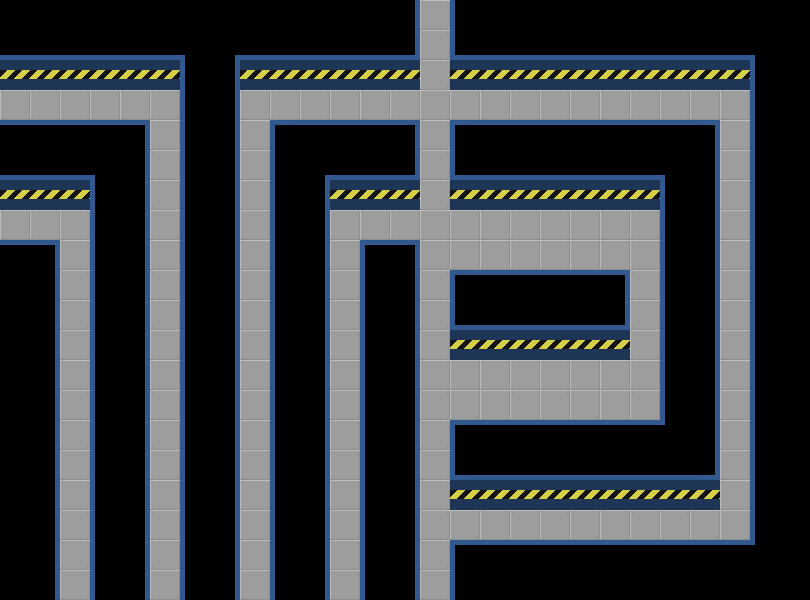
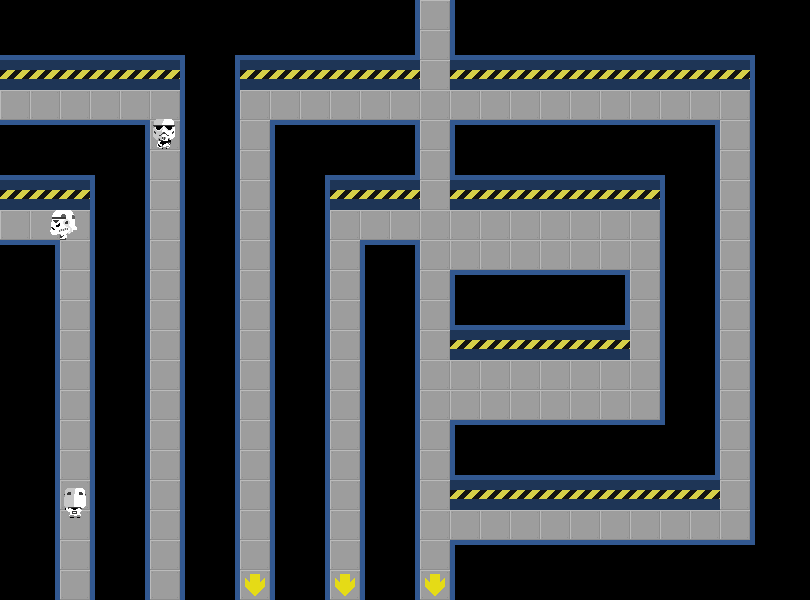
Changed some maps, edited tutorial text to fit.

diff --git a/starwarsV1.1.py b/starwarsV1.1.py
@@ -19,7 +19,7 @@ import util
 
 pygame.init()
 
-level = 9
+level = 0
 numOfLevels = 10
 rebelScore = 0
 
@@ -180,7 +180,7 @@ pressC = pygame.mixer.Sound("sounds/start.wav")
 wallbang = pygame.mixer.Sound("sounds/wallbang.ogg")
 
 def loadLevel(level):
-    position=[[360,570],[180,180],[0,450],[30,270],[750,540],[360,30],[420,30],[60,330],[30,270],[30,270]]
+    position=[[360,570],[180,180],[0,450],[30,270],[750,420],[360,30],[420,30],[60,330],[30,270],[30,270]]
     levelXList = [[510,0,0],[0,180,360,180,360,600,360,450],[0,120,270,420,690,540,390,240,0],
                   [0,0,0,30,780,780],[0,30,780,0,420,180,510,180,300,420,510,30,180,510,630],[0,0,60,390],
              [0,0,270,330,360,450,450,450,450,450,750],
@@ -211,10 +211,7 @@ def loadLevel(level):
                                                ,[390,300],[390,330],[390,360],[390,390],[390,420],[390,450],[390,480],[390,510],[390,540],[390,570]]
                   ,[],[[360,150],[360,300],[360,420]],[],[],[[180,210],[180,240],[210,450],[210,480],[210,510],[360,270],[360,270],[360,270],[360,300],[360,330],[570,150],
                                 [570,180],[570,210],[510,390],[510,420]],[]]
-<<<<<<< HEAD
 
-=======
->>>>>>> 7845677a2b6f6b146da859786eb4a5dde935e742
     stormTCoords = [[],[],[],[],[],[],[330,210],[],[],[]]
     vader_face = [0,0,1,2,2,0,0,1,1,3] # 0-Down, 1-Left, 2- Up, 3-Right
     blueprint_xy = [[],[],[],[],[120,150],[],[],[],[],[]]
@@ -377,8 +374,7 @@ def helpInstructions(level):
                         "c          x = x + 1",
                         "'self' represents the object you are",
                         " controling, in this case the player."],
-                   3 : ["The Death Star Blueprint earns you points",
-                        "",
+                   3 : ["",
                         "Here are some useful actions to use", # Learn condition check
                         "c      if self.holeInFront() :",
                         "c          self.jumpRight()",
@@ -386,26 +382,27 @@ def helpInstructions(level):
                         "Don't forget how to use the loops!",
                         "c      while x < 5 :",
                         "c          self.jumpUp()"],
-                   4 : ["If you didn't realize, If and While", # Example conditions 1
+                   4 : ["The Death Star Blueprint earns you ",
+                        "20 points!",
+                        "If you didn't realize, If and While", # Example conditions 1
                         "statements require conditions.",
-                        "",
                         "c      x = 0",
                         "c      while x < 5 :",
                         "c          self.moveUp()",
                         "c          if x == 3",
                         "c              self.moveLeft()",
                         ""],
-                   5 : ["I avoid getting detected by infrared sensor",
-                        "",
-                        "Use less than(<), more than(>) or" # Example conditions 2
-                        "equal to(==), within a condition",
-                        "check.",
-                        "c      while <condtion> :",
+                   5 : ["Avoid getting detected by infrared",
+                        "sensors! They're like holes!",
+                        "You can use less than(<), more ", # Example conditions 2
+                        "than(>) or equal to(==), within",
+                        "a condition check.",
+                        "c      while self.holeInFront() :",
                         "c          <do stuff>",
-                        "c      if <condition> :",
+                        "c      if self.holeInFront():",
                         "c          <do stuff>"],
                    6 : ["Let's see how quickly you can get", # Test!
-                        "this over and done with",
+                        "this over and done with!",
                         "",
                         "c      x = <value>",
                         "c      while <condtion> :",
@@ -418,7 +415,7 @@ def helpInstructions(level):
                         "Try assigning 'True' as the x value",
                         "",
                         "c      x = <value>",
-                        "c      while <condtion> :",
+                        "c      while x:",
                         "c          <do stuff>",
                         "c      if <condition> :",
                         "c          <do stuff>"],
@@ -427,15 +424,15 @@ def helpInstructions(level):
                         "where is it used?",
                         "",
                         "c      x = <value>",
-                        "c      while <condtion> :",
+                        "c      while <condition> :",
                         "c          <do stuff>",
                         "c      if <condition> :",
                         "c          <do stuff>"],
                    9 : ["Hop onto the Millenium Falcon and",
                         "escape!",
                         "Holes will randomly appear on the",
-                        "so try putting if-statement in ",
-                        "a loop"]}
+                        "map, so try putting if-statement ",
+                        "in a loop!"]}
     for lineNumber in range(len(helpMessage[level])):
         isCode = False
         if len(helpMessage[level][lineNumber]) > 0:
@@ -845,14 +842,13 @@ def gameLoop():
             gameDisplay.blit(player, (lead_x, lead_y))
         status(rebelScore, time_limit,seconds)
         helpInstructions(level)
-<<<<<<< HEAD
+
         
         if level == numOfLevels - 1:
             draw_holes()
         if level == 9 and not gameWon:
             gameDisplay.blit(mFalconStationary, (510, 225))
-=======
->>>>>>> 7845677a2b6f6b146da859786eb4a5dde935e742
+
         if(len(stormT)>0):
             gameDisplay.blit(stormtRightStationary, (stormT[0], stormT[1]))
 
